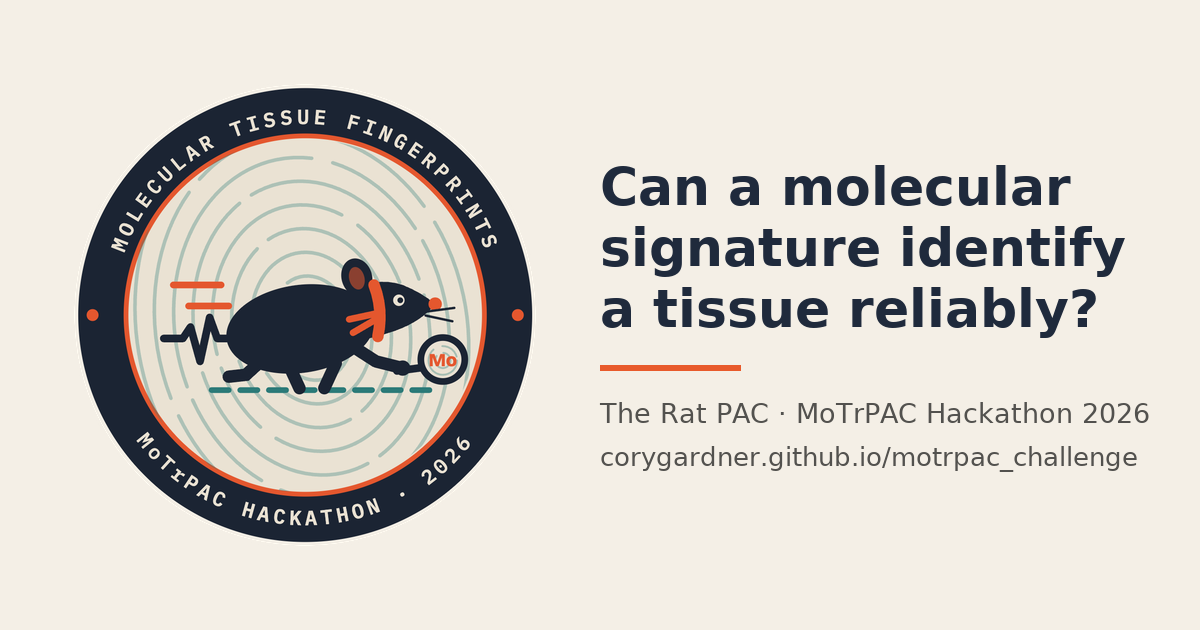
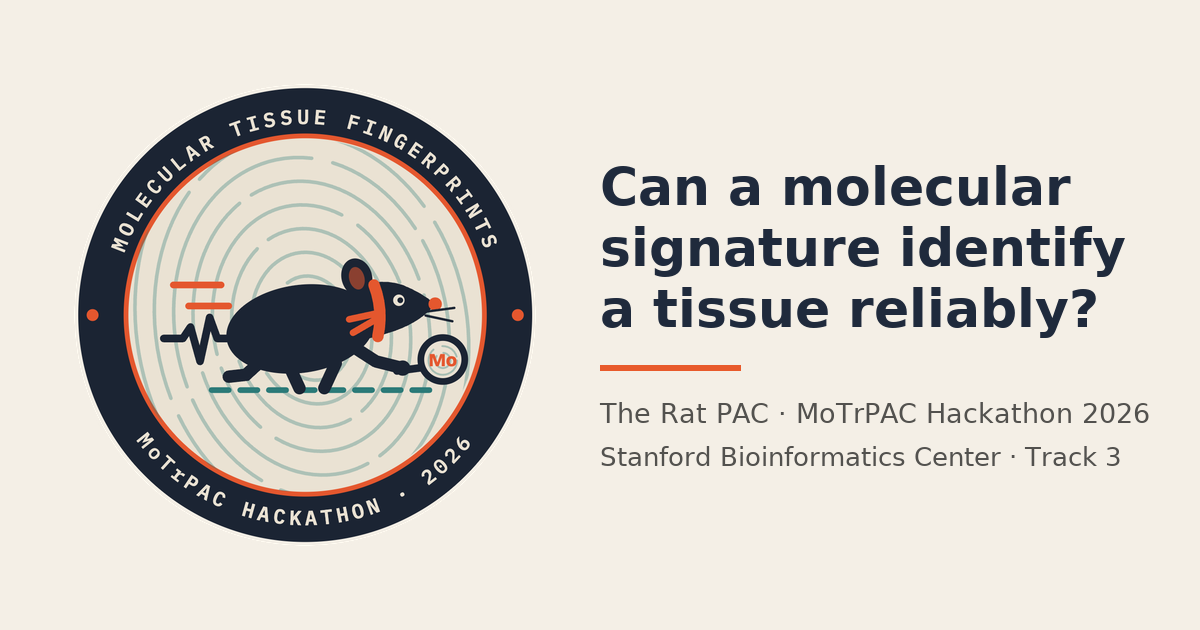
v10.3.2: the team repository is the only home (no public mirror)
Every link to the personal repository and its Pages site now points to
Stanford-Bioinformatics-Center/multiomics-hackathon-2026-track-3 and its Pages site (private to
organization members); the "public mirror" lines are removed; the social card names the event
instead of a URL. Version 2.1.2.

Changed region(s): [[0.4933, 0.6937, 0.9558, 0.754]]

diff --git a/site/about.html b/site/about.html
@@ -13,7 +13,7 @@
 <meta property="og:type" content="website">
 <meta property="og:title" content="About — Tissue Fingerprints">
 <meta property="og:description" content="The Rat PAC at the MoTrPAC Hackathon 2026: team, data sources, versions, reproduction and citation.">
-<meta property="og:image" content="https://corygardner.github.io/motrpac_challenge/assets/brand/badge-og.png">
+<meta property="og:image" content="https://turbo-guide-2yve4kz.pages.github.io/assets/brand/badge-og.png">
 <meta property="og:image:width" content="1200">
 <meta property="og:image:height" content="630">
 <meta name="twitter:card" content="summary_large_image">
@@ -71,8 +71,8 @@
       <li><b>Mouse exercise metabolome</b>: Sato et al., <i>Cell Metab</i> 34:329–345 (2022), <a href="https://doi.org/10.1016/j.cmet.2021.12.016">doi:10.1016/j.cmet.2021.12.016</a>.</li>
       <li><b>Mouse aging metabolome</b>: Metabolomics Workbench study <a href="https://www.metabolomicsworkbench.org/data/DRCCMetadata.php?Mode=Study&amp;StudyID=ST003188">ST003188</a>, “A metabolic atlas of mouse aging” (Mullen Lab, University of Southern California; project PR001984), <a href="https://doi.org/10.21228/M88J0W">doi:10.21228/M88J0W</a>. CC BY 4.0.</li>
     </ul>
-    <p>Download URLs and sha256 of the external files are in <a href="https://github.com/CoryGardner/motrpac_challenge/blob/main/docs/REPRODUCIBILITY.md">docs/REPRODUCIBILITY.md</a> and <code>results_multiomic/02_discovery/download_log.csv</code>. The third-party data the repository contains, with their licences and what was changed, are listed in <a href="https://github.com/CoryGardner/motrpac_challenge/blob/main/NOTICE.md">NOTICE.md</a>.</p>
-    <p>The full datasets are not in the repository; the small subsets and derived values that are (a four-sample BodyMap count fixture, log2 CPM of at most 100 genes, per-sample predictions) are listed with their licences in <a href="https://github.com/CoryGardner/motrpac_challenge/blob/main/NOTICE.md">NOTICE.md</a>. <code>data/raw/</code> (1.9 GB) is recreated by <code>R/export_motrpac.R</code> (<code>make export</code>); <code>data/external/</code> (5.8 GB) by <code>R/export_bodymap.R</code> (<code>make bodymap</code>, Bioconductor <code>bodymapRat</code>) and, for GTEx, by downloading the three v8 files named in the Makefile and running <code>scripts/11_gtex_prepare.py</code> (<code>make gtex</code>). The full portal download is not needed; phase 16 reads a 165 MB subset of it (the RNA-seq QC table and the 19 per-tissue count files with the reference-standard vials) when <code>MOTRPAC_PORTAL</code> is set, otherwise it uses the package metadata and reports the bridging measurement as pending.</p>
+    <p>Download URLs and sha256 of the external files are in <a href="https://github.com/Stanford-Bioinformatics-Center/multiomics-hackathon-2026-track-3/blob/main/docs/REPRODUCIBILITY.md">docs/REPRODUCIBILITY.md</a> and <code>results_multiomic/02_discovery/download_log.csv</code>. The third-party data the repository contains, with their licences and what was changed, are listed in <a href="https://github.com/Stanford-Bioinformatics-Center/multiomics-hackathon-2026-track-3/blob/main/NOTICE.md">NOTICE.md</a>.</p>
+    <p>The full datasets are not in the repository; the small subsets and derived values that are (a four-sample BodyMap count fixture, log2 CPM of at most 100 genes, per-sample predictions) are listed with their licences in <a href="https://github.com/Stanford-Bioinformatics-Center/multiomics-hackathon-2026-track-3/blob/main/NOTICE.md">NOTICE.md</a>. <code>data/raw/</code> (1.9 GB) is recreated by <code>R/export_motrpac.R</code> (<code>make export</code>); <code>data/external/</code> (5.8 GB) by <code>R/export_bodymap.R</code> (<code>make bodymap</code>, Bioconductor <code>bodymapRat</code>) and, for GTEx, by downloading the three v8 files named in the Makefile and running <code>scripts/11_gtex_prepare.py</code> (<code>make gtex</code>). The full portal download is not needed; phase 16 reads a 165 MB subset of it (the RNA-seq QC table and the 19 per-tissue count files with the reference-standard vials) when <code>MOTRPAC_PORTAL</code> is set, otherwise it uses the package metadata and reports the bridging measurement as pending.</p>
   </section>
 
   <section class="section prose" id="versions">
@@ -102,7 +102,7 @@ python -m http.server -d site 8000    # then open http://localhost:8000</pre>
 
   <section class="section prose" id="licence">
     <h2>Licence</h2>
-    <p>Code and site: MIT (<code>LICENSE</code>). Third-party data and their terms: <a href="https://github.com/CoryGardner/motrpac_challenge/blob/main/NOTICE.md">NOTICE.md</a>. Plotly.js (MIT) is loaded from a CDN with a vendored copy for offline use.</p>
+    <p>Code and site: MIT (<code>LICENSE</code>). Third-party data and their terms: <a href="https://github.com/Stanford-Bioinformatics-Center/multiomics-hackathon-2026-track-3/blob/main/NOTICE.md">NOTICE.md</a>. Plotly.js (MIT) is loaded from a CDN with a vendored copy for offline use.</p>
   </section>
 </main>
 <footer class="site-footer"></footer>

diff --git a/site/science.html b/site/science.html
@@ -13,8 +13,8 @@
 <meta property="og:site_name" content="Tissue Fingerprints — The Rat PAC">
 <meta property="og:title" content="Tissue Fingerprints — can a molecular signature identify a tissue reliably?">
 <meta property="og:description" content="A 20-gene panel identifies 19 rat tissues and names the mapped organs of another laboratory's rats; its 90 % guarantee holds within the study, abstains rather than guesses under shift, and is restored by recalibrating on three animals. MoTrPAC × rat BodyMap × GTEx.">
-<meta property="og:url" content="https://corygardner.github.io/motrpac_challenge/science.html">
-<meta property="og:image" content="https://corygardner.github.io/motrpac_challenge/assets/brand/badge-og.png">
+<meta property="og:url" content="https://turbo-guide-2yve4kz.pages.github.io/science.html">
+<meta property="og:image" content="https://turbo-guide-2yve4kz.pages.github.io/assets/brand/badge-og.png">
 <meta property="og:image:width" content="1200">
 <meta property="og:image:height" content="630">
 <meta property="og:image:alt" content="The Rat PAC badge beside the question: can a molecular signature identify a tissue reliably?">
@@ -41,13 +41,13 @@
     <div class="tiles">
       <div class="tile"><h3>A classifier</h3>
         <p class="small">The 20-gene logistic regression with calibrated 90 % prediction sets.</p>
-        <p class="small"><a href="index.html">Check samples</a> · <a href="explore.html#tissue-card">Reference atlas: tissue card</a> · <a href="data/panel_model.json">panel_model.json</a> (the model the browser runs) · <a href="https://github.com/CoryGardner/motrpac_challenge/blob/main/src/tfp/models.py">src/tfp/models.py</a></p></div>
+        <p class="small"><a href="index.html">Check samples</a> · <a href="explore.html#tissue-card">Reference atlas: tissue card</a> · <a href="data/panel_model.json">panel_model.json</a> (the model the browser runs) · <a href="https://github.com/Stanford-Bioinformatics-Center/multiomics-hackathon-2026-track-3/blob/main/src/tfp/models.py">src/tfp/models.py</a></p></div>
       <div class="tile"><h3>Minimal tissue-signature panel</h3>
         <p class="small">The 20 genes and the 10-gene stable core.</p>
         <p class="small"><a href="fingerprint.html">Panel page</a> · <a href="data/panel_card.csv">panel card CSV</a> · <a href="data/panel_card.json">JSON</a></p></div>
       <div class="tile"><h3>Feature-selection workflow</h3>
         <p class="small">The class-aware round-robin selector, fitted inside animal-grouped folds.</p>
-        <p class="small"><a href="methods.html#selector">Methods: the selector</a> · <a href="explore.html#panel-builder">Reference atlas: panel builder</a> · <a href="https://github.com/CoryGardner/motrpac_challenge/blob/main/src/tfp/models.py#L58">RoundRobinSelector</a></p></div>
+        <p class="small"><a href="methods.html#selector">Methods: the selector</a> · <a href="explore.html#panel-builder">Reference atlas: panel builder</a> · <a href="https://github.com/Stanford-Bioinformatics-Center/multiomics-hackathon-2026-track-3/blob/main/src/tfp/models.py#L58">RoundRobinSelector</a></p></div>
       <div class="tile"><h3>Interactive model-explanation tool</h3>
         <p class="small">Check samples: why a sample is called, gene by gene, with claim checks; the Reference atlas for the reference data.</p>
         <p class="small"><a href="explore.html#tissue-card">Tissue card</a> · <a href="explore.html#gene-explorer">Gene explorer</a> · <a href="explore.html#panel-builder">Panel builder</a> · <a href="index.html">Check samples</a></p></div>

diff --git a/site/multiomic.html b/site/multiomic.html
@@ -13,8 +13,8 @@
 <meta property="og:site_name" content="Tissue Fingerprints — The Rat PAC">
 <meta property="og:title" content="The proteome and metabolome carry the fingerprint too — on the right scale">
 <meta property="og:description" content="Follow-up: reporter-ion proteomics, protein and metabolite transfer to external atlases, fusion under shift, and an external TMT design with tissue crossed with plex.">
-<meta property="og:url" content="https://corygardner.github.io/motrpac_challenge/multiomic.html">
-<meta property="og:image" content="https://corygardner.github.io/motrpac_challenge/assets/brand/badge-og.png">
+<meta property="og:url" content="https://turbo-guide-2yve4kz.pages.github.io/multiomic.html">
+<meta property="og:image" content="https://turbo-guide-2yve4kz.pages.github.io/assets/brand/badge-og.png">
 <meta property="og:image:width" content="1200">
 <meta property="og:image:height" content="630">
 <meta property="og:image:alt" content="The Rat PAC badge beside the question: can a molecular signature identify a tissue reliably?">
@@ -128,7 +128,7 @@
       <li><b>Mouse exercise metabolome.</b> Sato S, Dyar KA, Treebak JT, et al. Atlas of exercise metabolism reveals time-dependent signatures of metabolic homeostasis. <i>Cell Metab</i> 34:329–345.e8 (2022). <a href="https://doi.org/10.1016/j.cmet.2021.12.016">doi:10.1016/j.cmet.2021.12.016</a>. Supplementary tables (mmc2–mmc8).</li>
       <li><b>Mouse aging metabolome.</b> A metabolic atlas of mouse aging. Metabolomics Workbench study <a href="https://www.metabolomicsworkbench.org/data/DRCCMetadata.php?Mode=Study&amp;StudyID=ST003188">ST003188</a> (analysis AN005236), project PR001984, Mullen Lab, Keck School of Medicine, University of Southern California; released 2025-11-18. <a href="https://doi.org/10.21228/M88J0W">doi:10.21228/M88J0W</a>. CC BY 4.0. Metabolomics Workbench is supported by NIH grant U2C-DK119886.</li>
     </ul>
-    <p class="small">Download URLs and sha256 of every external file: <code>results_multiomic/02_discovery/download_log.csv</code> and the data table of <a href="https://github.com/CoryGardner/motrpac_challenge/blob/main/docs/REPRODUCIBILITY.md">docs/REPRODUCIBILITY.md</a>; third-party data committed here and their licences: <a href="https://github.com/CoryGardner/motrpac_challenge/blob/main/NOTICE.md">NOTICE.md</a>.</p>
+    <p class="small">Download URLs and sha256 of every external file: <code>results_multiomic/02_discovery/download_log.csv</code> and the data table of <a href="https://github.com/Stanford-Bioinformatics-Center/multiomics-hackathon-2026-track-3/blob/main/docs/REPRODUCIBILITY.md">docs/REPRODUCIBILITY.md</a>; third-party data committed here and their licences: <a href="https://github.com/Stanford-Bioinformatics-Center/multiomics-hackathon-2026-track-3/blob/main/NOTICE.md">NOTICE.md</a>.</p>
   </section>
 </main>
 <footer class="site-footer"></footer>

diff --git a/site/assets/pages/check.js b/site/assets/pages/check.js
@@ -502,7 +502,7 @@ function reportHtml() {
   return `<!doctype html><html lang="en"><head><meta charset="utf-8"><title>Tissue check report</title>
 <style>body{font:14px/1.45 system-ui,sans-serif;color:#111;margin:2rem;max-width:60rem}h1{font-size:1.5rem}table{border-collapse:collapse;width:100%;font-size:12px}th,td{border-bottom:1px solid #ccc;padding:.25rem .4rem;text-align:left}td.n{text-align:right}tr.flag td{background:#fff3e0}.meta{color:#555;font-size:12px}@media print{body{margin:1cm}tr{break-inside:avoid}}</style></head><body>
 <h1>Is this sample the tissue you think it is? — report</h1>
-<p class="meta">Generated ${esc(when)} UTC from ${esc(state.source)} by https://corygardner.github.io/motrpac_challenge/ (Tissue Fingerprints, The Rat PAC). Model: the 20-gene transfer model (site/data/panel_model.json, generated ${esc(m._meta.generated)}, git ${esc(m._meta.git_hash)}). α = ${C.alpha.toFixed(2)}; ${esc(C.scaling.mode === "within" ? "within-set" : "MoTrPAC reference")} scaling (${esc(C.scaling.reason)})${state.recal && !state.recal.error ? `; threshold recalibrated on ${state.recal.n} labelled samples` : `; MoTrPAC calibration (${m.calibration.n_animals} animals)`}.</p>
+<p class="meta">Generated ${esc(when)} UTC from ${esc(state.source)} by https://turbo-guide-2yve4kz.pages.github.io/ (Tissue Fingerprints, The Rat PAC). Model: the 20-gene transfer model (site/data/panel_model.json, generated ${esc(m._meta.generated)}, git ${esc(m._meta.git_hash)}). α = ${C.alpha.toFixed(2)}; ${esc(C.scaling.mode === "within" ? "within-set" : "MoTrPAC reference")} scaling (${esc(C.scaling.reason)})${state.recal && !state.recal.error ? `; threshold recalibrated on ${state.recal.n} labelled samples` : `; MoTrPAC calibration (${m.calibration.n_animals} animals)`}.</p>
 <p><b>${c.total}</b> samples; <b>${c.flagged}</b> flagged. Confident ${c.Confident}, ambiguous ${c.Ambiguous}, unknown ${c.Unknown}.${c.claimed ? ` Of ${c.claimed} claimed labels: consistent ${c.Consistent}, mismatch ${c.Mismatch}, can't confirm ${c["Can't confirm"]}, not in reference ${c["Not in reference"]}.` : ""}</p>
 ${flagged ? `<h2>Flagged samples</h2><ul>${flagged}</ul>` : ""}
 <h2>All samples</h2><table><thead><tr><th>sample</th><th>claimed</th><th>call</th><th>${esc(setLabel(C.alpha))}</th><th>status</th><th>claim</th><th>top p</th><th>runner-up</th></tr></thead><tbody>

diff --git a/site/assets/site.js b/site/assets/site.js
@@ -1,7 +1,7 @@
 // Shared chrome and components: nav, footer, theme toggle, data loader, stat tile, callouts, tables.
 // All text goes through textContent (never innerHTML with data).
 
-export const REPO_URL = "https://github.com/CoryGardner/motrpac_challenge";
+export const REPO_URL = "https://github.com/Stanford-Bioinformatics-Center/multiomics-hackathon-2026-track-3";
 // primary nav: the product first, the science second; the science pages carry a secondary row
 const PAGES = [["index.html", "Check samples"], ["explore.html", "Reference atlas"], ["science.html", "The science"], ["about.html", "About"]];
 export const SCIENCE_PAGES = [
@@ -101,7 +101,7 @@ export async function mountChrome(page) {
   document.body.insertBefore(el("a", { class: "skip", href: "#main" }, "Skip to content"), document.body.firstChild);
   const footer = document.querySelector("footer.site-footer") || document.body.appendChild(el("footer", { class: "site-footer" }));
   footer.replaceChildren(el("div", { class: "wrap" }, [
-    el("span", {}, ["Code and data exports: ", el("a", { href: REPO_URL }, "github.com/CoryGardner/motrpac_challenge"), " (MIT)."]),
+    el("span", {}, ["Code and data exports: ", el("a", { href: REPO_URL }, "github.com/Stanford-Bioinformatics-Center/multiomics-hackathon-2026-track-3"), " (MIT)."]),
     el("span", {}, ["Every number on this site is read from the result tables; ", el("code", {}, "site/data/provenance.json"), " records where."]),
   ]));
   window.addEventListener("resize", () => { /* Plotly handles responsive */ });

diff --git a/site/identifiability.html b/site/identifiability.html
@@ -13,8 +13,8 @@
 <meta property="og:site_name" content="Tissue Fingerprints — The Rat PAC">
 <meta property="og:title" content="What is the fingerprint identifying?">
 <meta property="og:description" content="Any multi-tissue study processes each tissue as a unit, so within-study accuracy alone leaves open how much of a fingerprint is biology. How much processing could contribute in MoTrPAC, measured on the consortium's reference-standard RNA pools, and settled by an independent laboratory.">
-<meta property="og:url" content="https://corygardner.github.io/motrpac_challenge/identifiability.html">
-<meta property="og:image" content="https://corygardner.github.io/motrpac_challenge/assets/brand/badge-og.png">
+<meta property="og:url" content="https://turbo-guide-2yve4kz.pages.github.io/identifiability.html">
+<meta property="og:image" content="https://turbo-guide-2yve4kz.pages.github.io/assets/brand/badge-og.png">
 <meta property="og:image:width" content="1200">
 <meta property="og:image:height" content="630">
 <meta property="og:image:alt" content="The Rat PAC badge beside the question: can a molecular signature identify a tissue reliably?">

diff --git a/site/exercise.html b/site/exercise.html
@@ -13,8 +13,8 @@
 <meta property="og:site_name" content="Tissue Fingerprints — The Rat PAC">
 <meta property="og:title" content="Does exercise change the fingerprint?">
 <meta property="og:description" content="Eight weeks of treadmill training raised VO2max and lowered body fat in both sexes and is detectable inside every tissue in every omic layer; it does not move the tissue fingerprint: fit on sedentary controls only, the panel names the tissue of trained animals.">
-<meta property="og:url" content="https://corygardner.github.io/motrpac_challenge/exercise.html">
-<meta property="og:image" content="https://corygardner.github.io/motrpac_challenge/assets/brand/badge-og.png">
+<meta property="og:url" content="https://turbo-guide-2yve4kz.pages.github.io/exercise.html">
+<meta property="og:image" content="https://turbo-guide-2yve4kz.pages.github.io/assets/brand/badge-og.png">
 <meta property="og:image:width" content="1200">
 <meta property="og:image:height" content="630">
 <meta property="og:image:alt" content="The Rat PAC badge beside the question: can a molecular signature identify a tissue reliably?">

diff --git a/site/transfer.html b/site/transfer.html
@@ -13,8 +13,8 @@
 <meta property="og:site_name" content="Tissue Fingerprints — The Rat PAC">
 <meta property="og:title" content="Does it transfer?">
 <meta property="og:description" content="The rat tissue fingerprint under shift: trained animals, held-out sex, another laboratory (rat BodyMap), another species (GTEx), juvenile and old animals, and what recalibration restores, and at what set size.">
-<meta property="og:url" content="https://corygardner.github.io/motrpac_challenge/transfer.html">
-<meta property="og:image" content="https://corygardner.github.io/motrpac_challenge/assets/brand/badge-og.png">
+<meta property="og:url" content="https://turbo-guide-2yve4kz.pages.github.io/transfer.html">
+<meta property="og:image" content="https://turbo-guide-2yve4kz.pages.github.io/assets/brand/badge-og.png">
 <meta property="og:image:width" content="1200">
 <meta property="og:image:height" content="630">
 <meta property="og:image:alt" content="The Rat PAC badge beside the question: can a molecular signature identify a tissue reliably?">

diff --git a/site/explore.html b/site/explore.html
@@ -13,8 +13,8 @@
 <meta property="og:site_name" content="Tissue Fingerprints — The Rat PAC">
 <meta property="og:title" content="Reference atlas">
 <meta property="og:description" content="Pick a sample, set α, and watch the conformal prediction set: confident, ambiguous or abstaining. Explore each panel gene across MoTrPAC, rat BodyMap and GTEx. Build the panel gene by gene.">
-<meta property="og:url" content="https://corygardner.github.io/motrpac_challenge/explore.html">
-<meta property="og:image" content="https://corygardner.github.io/motrpac_challenge/assets/brand/badge-og.png">
+<meta property="og:url" content="https://turbo-guide-2yve4kz.pages.github.io/explore.html">
+<meta property="og:image" content="https://turbo-guide-2yve4kz.pages.github.io/assets/brand/badge-og.png">
 <meta property="og:image:width" content="1200">
 <meta property="og:image:height" content="630">
 <meta property="og:image:alt" content="The Rat PAC badge beside the question: can a molecular signature identify a tissue reliably?">

diff --git a/site/limitations.html b/site/limitations.html
@@ -13,8 +13,8 @@
 <meta property="og:site_name" content="Tissue Fingerprints — The Rat PAC">
 <meta property="og:title" content="Limitations">
 <meta property="og:description" content="Specific and checkable: the pre-split gene filter, assumed BodyMap animal ids, super-class scoring, sex confounded with cohort, one data release, small n, the untuned QC baseline.">
-<meta property="og:url" content="https://corygardner.github.io/motrpac_challenge/limitations.html">
-<meta property="og:image" content="https://corygardner.github.io/motrpac_challenge/assets/brand/badge-og.png">
+<meta property="og:url" content="https://turbo-guide-2yve4kz.pages.github.io/limitations.html">
+<meta property="og:image" content="https://turbo-guide-2yve4kz.pages.github.io/assets/brand/badge-og.png">
 <meta property="og:image:width" content="1200">
 <meta property="og:image:height" content="630">
 <meta property="og:image:alt" content="The Rat PAC badge beside the question: can a molecular signature identify a tissue reliably?">

diff --git a/site/fingerprint.html b/site/fingerprint.html
@@ -13,8 +13,8 @@
 <meta property="og:site_name" content="Tissue Fingerprints — The Rat PAC">
 <meta property="og:title" content="The panel">
 <meta property="og:description" content="How small can a tissue fingerprint be: the panel curve, the round-robin selector vs a univariate F-test, the ten-gene stable core, per-tissue accuracy and the closest neighbours.">
-<meta property="og:url" content="https://corygardner.github.io/motrpac_challenge/fingerprint.html">
-<meta property="og:image" content="https://corygardner.github.io/motrpac_challenge/assets/brand/badge-og.png">
+<meta property="og:url" content="https://turbo-guide-2yve4kz.pages.github.io/fingerprint.html">
+<meta property="og:image" content="https://turbo-guide-2yve4kz.pages.github.io/assets/brand/badge-og.png">
 <meta property="og:image:width" content="1200">
 <meta property="og:image:height" content="630">
 <meta property="og:image:alt" content="The Rat PAC badge beside the question: can a molecular signature identify a tissue reliably?">

diff --git a/site/methods.html b/site/methods.html
@@ -13,8 +13,8 @@
 <meta property="og:site_name" content="Tissue Fingerprints — The Rat PAC">
 <meta property="og:title" content="Methods">
 <meta property="og:description" content="How every number was produced: animal-grouped splits, the in-fold pipeline, the round-robin selector, split-conformal sets and the quantile rule, the certificate and the transfer protocol.">
-<meta property="og:url" content="https://corygardner.github.io/motrpac_challenge/methods.html">
-<meta property="og:image" content="https://corygardner.github.io/motrpac_challenge/assets/brand/badge-og.png">
+<meta property="og:url" content="https://turbo-guide-2yve4kz.pages.github.io/methods.html">
+<meta property="og:image" content="https://turbo-guide-2yve4kz.pages.github.io/assets/brand/badge-og.png">
 <meta property="og:image:width" content="1200">
 <meta property="og:image:height" content="630">
 <meta property="og:image:alt" content="The Rat PAC badge beside the question: can a molecular signature identify a tissue reliably?">
